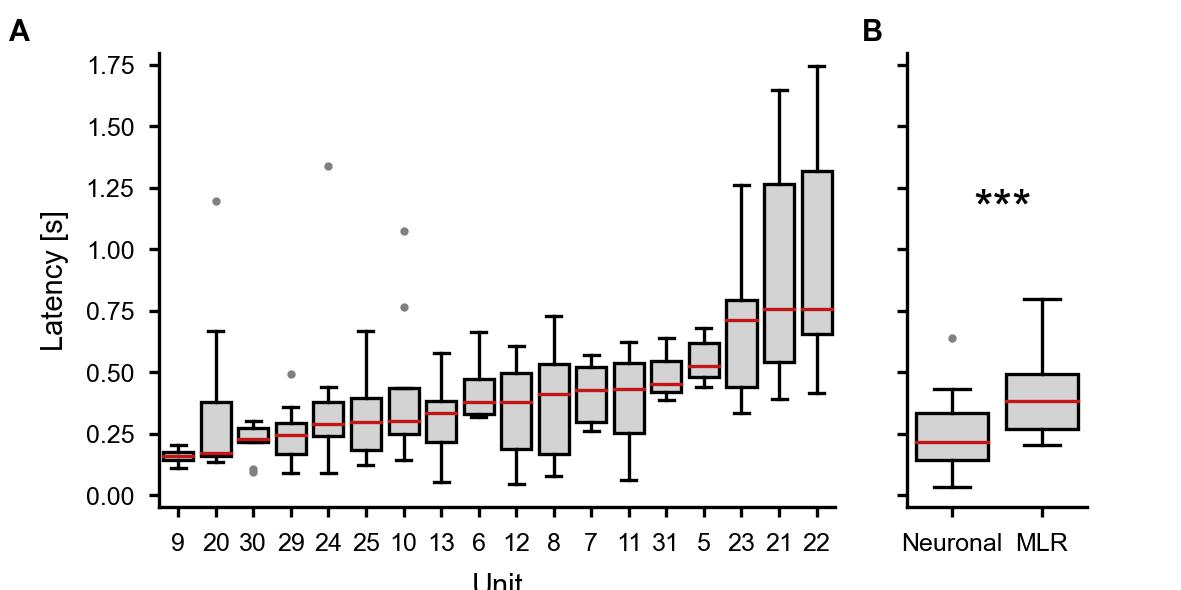
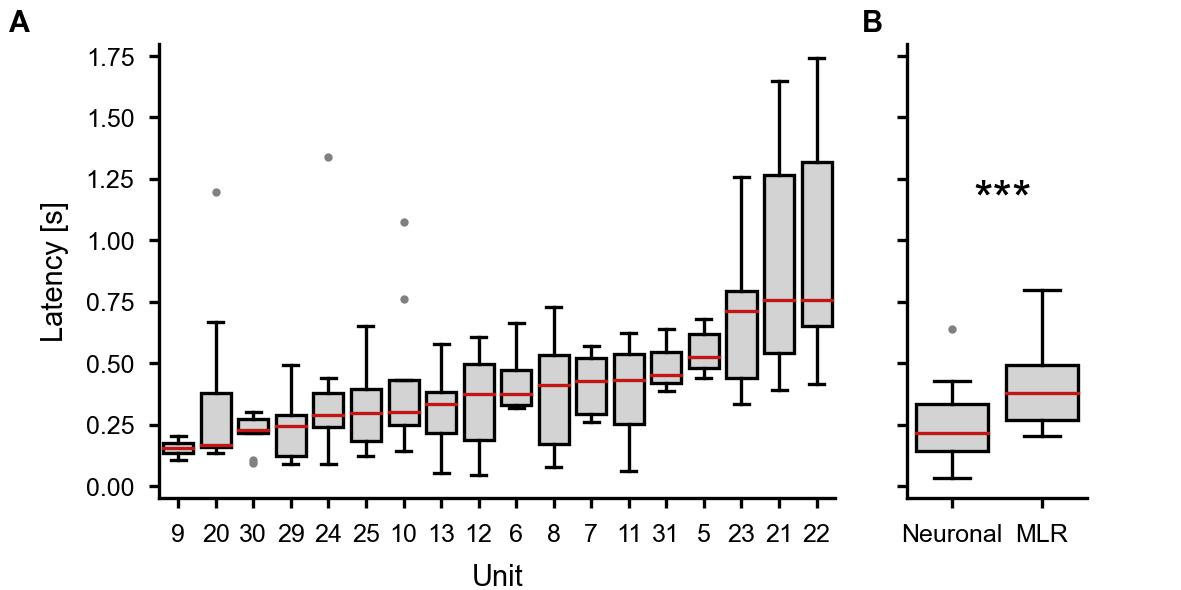
updated Figure S4

diff --git a/FigureS4.py b/FigureS4.py
@@ -94,7 +94,7 @@ sub1.set_xlabel("Unit", fontsize=LS)
 sub1.set_ylabel("Latency [s]", fontsize=LS)
 l1, b1, w1, h1 = sub1.get_position().bounds
 l1 = l1+0.01
-b1 = b1+0.03
+b1 = b1+0.045
 w1 = w1+0.22
 sub1.set_position([l1, b1, w1, h1])
 sub1.tick_params(axis='both', length=TickLength, labelsize=TLS)
@@ -119,6 +119,7 @@ sub2.set_ylabel("", fontsize=LS)
 l2, b2, w2, h2 = sub2.get_position().bounds
 w2 = w2-0.2
 l2 = l2+0.22
+b2 = b1
 sub2.set_position([l2, b1, w2, h2])
 sub2.text(-1, 1.85, 'B', size=LS, weight='bold')
 
